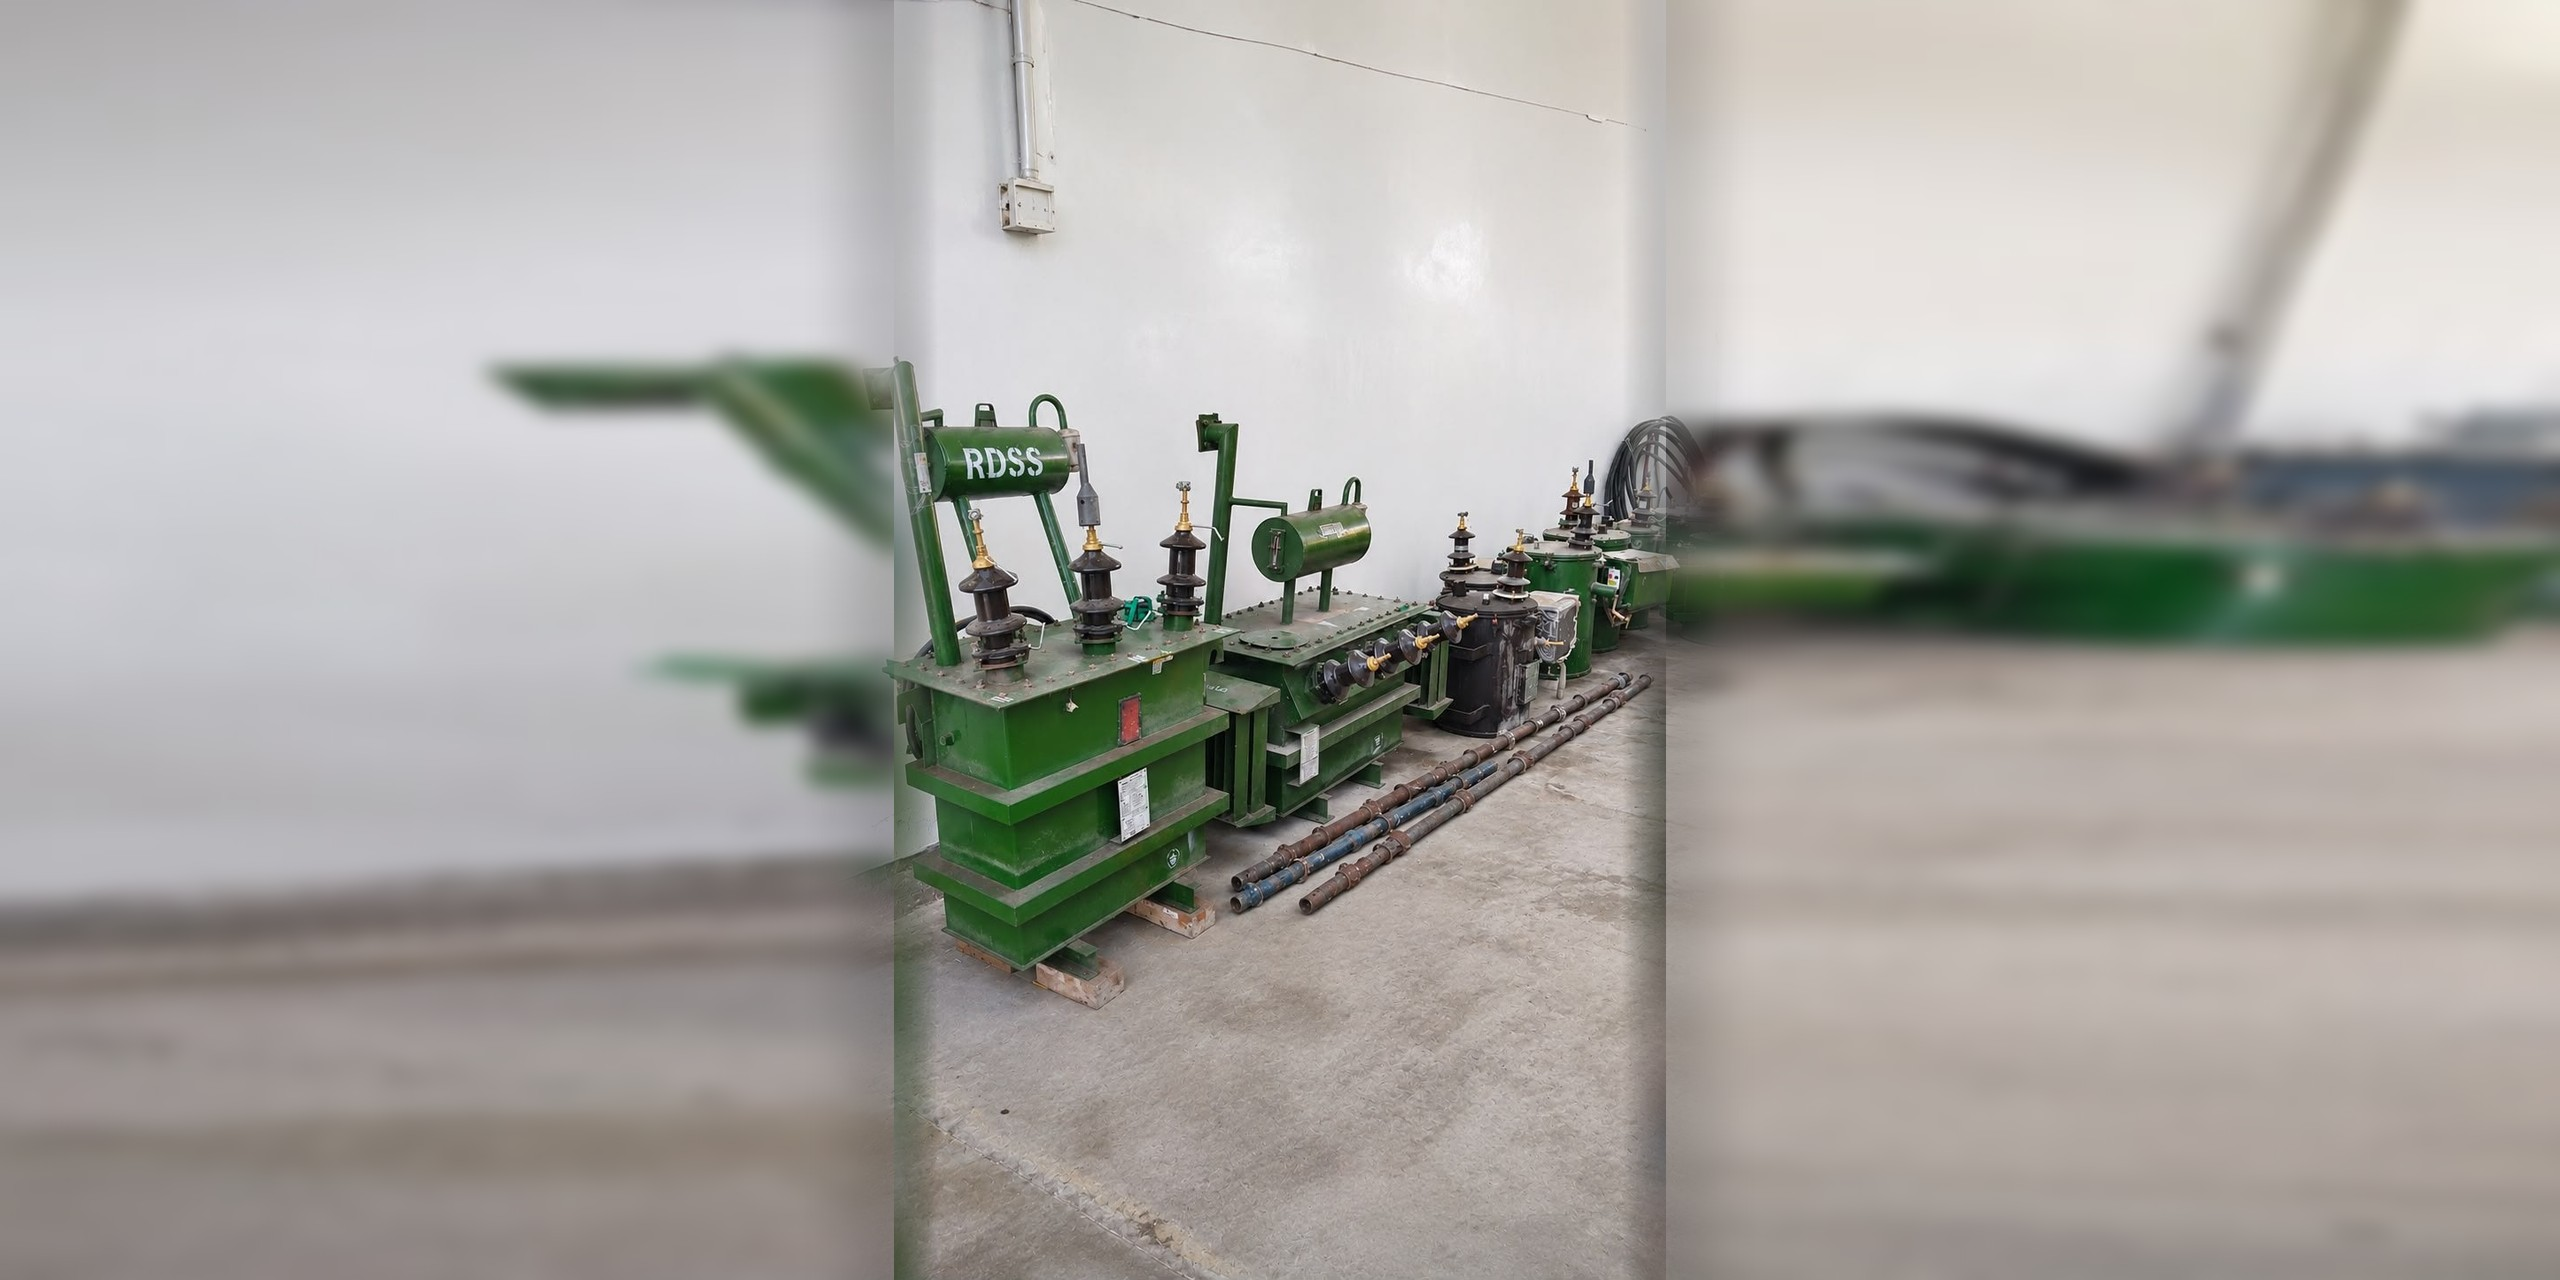
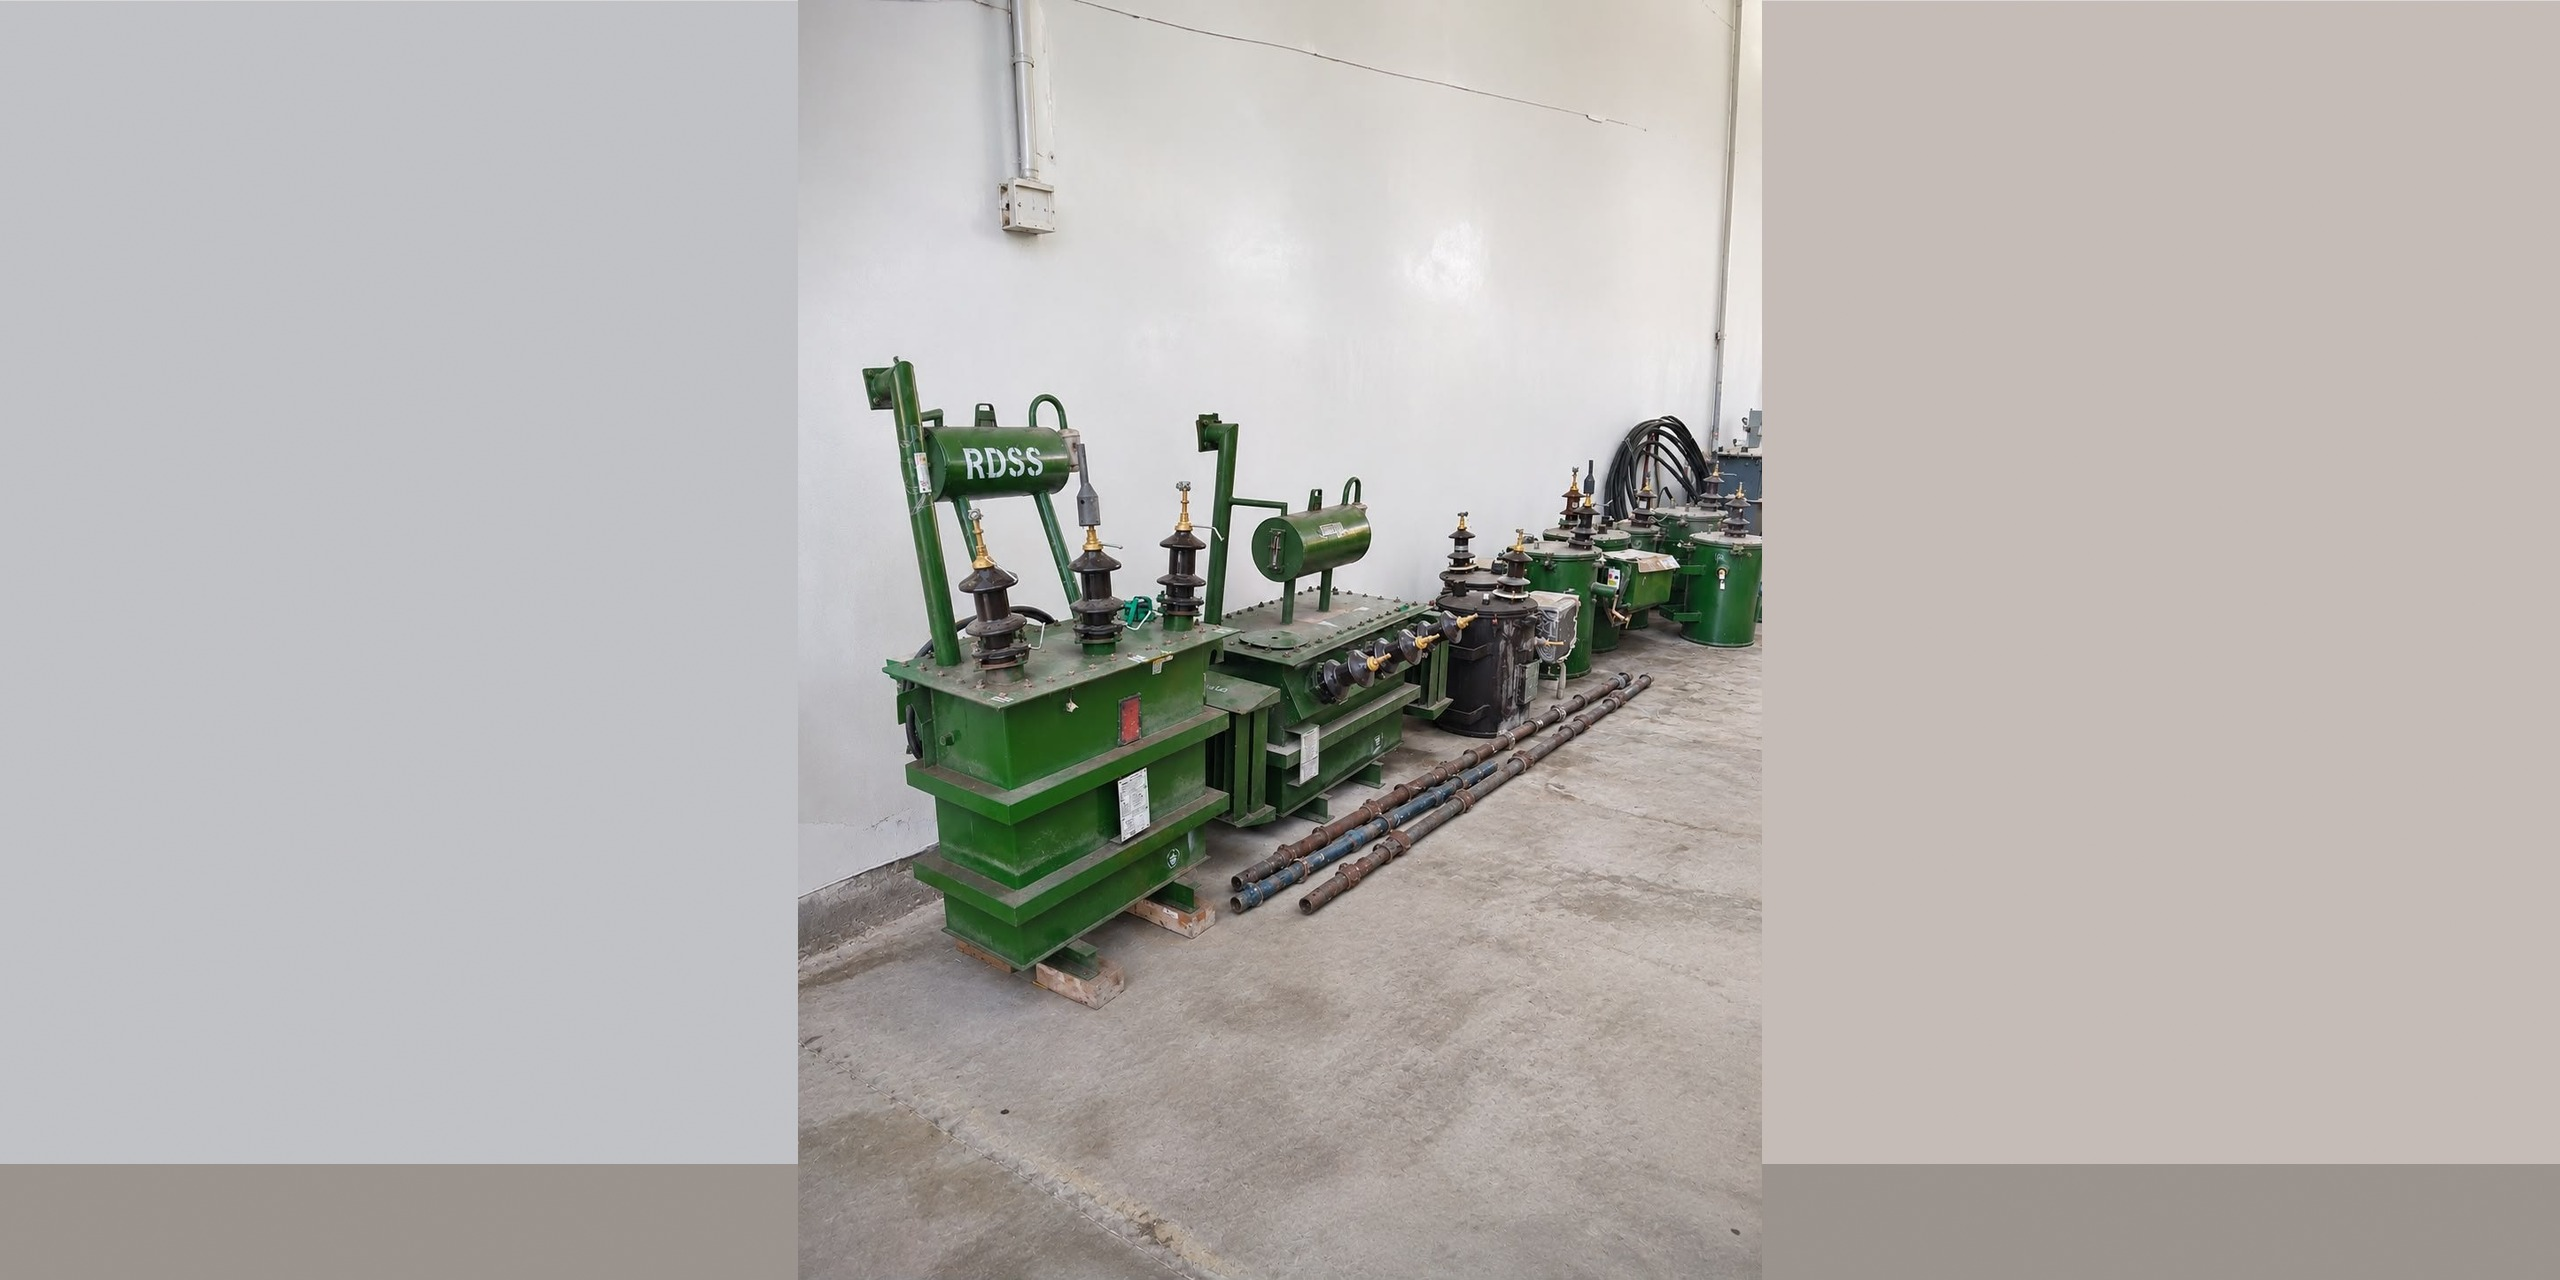
fix(hero): sharp 2:1 sky/ground extend, drop blur overlay

diff --git a/index.html b/index.html
@@ -170,33 +170,27 @@
     <section class="hero hero--fade" aria-roledescription="carousel" aria-label="Facility highlights">
       <div class="hero-slides">
         <figure class="hero-slide hero-slide--facility is-active">
-          <img class="hero-slide__fill" src="assets/images/hero/facility.jpg" alt="" aria-hidden="true" />
-          <img class="hero-slide__photo" src="assets/images/hero/facility.jpg" width="2560" height="1280" alt="Robust Testing Solutions Pvt Ltd. laboratory building at Plot H1-958, RIICO Chopanki, Bhiwadi (Delhi-NCR)" />
+          <img src="assets/images/hero/facility.jpg" width="2560" height="1280" alt="Robust Testing Solutions Pvt Ltd. laboratory building at Plot H1-958, RIICO Chopanki, Bhiwadi (Delhi-NCR)" />
           <figcaption class="hero-slide__cap">Our facility · Plot H1-958, RIICO Chopanki, Bhiwadi (Delhi-NCR)</figcaption>
         </figure>
         <figure class="hero-slide">
-          <img class="hero-slide__fill" src="assets/images/training-boardroom.jpg" alt="" aria-hidden="true" />
-          <img class="hero-slide__photo" src="assets/images/training-boardroom.jpg" width="1280" height="640" alt="Training session in the Robust Testing Solutions boardroom" />
+          <img src="assets/images/training-boardroom.jpg" width="1280" height="640" alt="Training session in the Robust Testing Solutions boardroom" />
           <figcaption class="hero-slide__cap">Training at Robust</figcaption>
         </figure>
         <figure class="hero-slide">
-          <img class="hero-slide__fill" src="assets/images/hero/fire-survival.jpg" alt="" aria-hidden="true" />
-          <img class="hero-slide__photo" src="assets/images/hero/fire-survival.jpg" width="2560" height="1280" alt="Horizontal flame bar test on a fire-survival cable" />
+          <img src="assets/images/hero/fire-survival.jpg" width="2560" height="1280" alt="Horizontal flame bar test on a fire-survival cable" />
           <figcaption class="hero-slide__cap">Fire-survival testing</figcaption>
         </figure>
         <figure class="hero-slide">
-          <img class="hero-slide__fill" src="assets/images/hero/witness.jpg" alt="" aria-hidden="true" />
-          <img class="hero-slide__photo" src="assets/images/hero/witness.jpg" width="2560" height="1280" alt="On-site witnessing of a cable sample inspection" />
+          <img src="assets/images/hero/witness.jpg" width="2560" height="1280" alt="On-site witnessing of a cable sample inspection" />
           <figcaption class="hero-slide__cap">Witnessing on the laboratory floor</figcaption>
         </figure>
         <figure class="hero-slide">
-          <img class="hero-slide__fill" src="assets/images/hero/transformer-testing.jpg" alt="" aria-hidden="true" />
-          <img class="hero-slide__photo" src="assets/images/hero/transformer-testing.jpg" width="2560" height="1280" alt="Distribution transformers set up for testing in the laboratory" />
+          <img src="assets/images/hero/transformer-testing.jpg" width="2560" height="1280" alt="Distribution transformers set up for testing in the laboratory" />
           <figcaption class="hero-slide__cap">Transformer testing</figcaption>
         </figure>
         <figure class="hero-slide">
-          <img class="hero-slide__fill" src="assets/images/hero/distribution-transformers.jpg" alt="" aria-hidden="true" />
-          <img class="hero-slide__photo" src="assets/images/hero/distribution-transformers.jpg" width="2560" height="1280" alt="Green RDSS distribution transformers awaiting test" />
+          <img src="assets/images/hero/distribution-transformers.jpg" width="2560" height="1280" alt="Green RDSS distribution transformers awaiting test" />
           <figcaption class="hero-slide__cap">Distribution transformers</figcaption>
         </figure>
       </div>

diff --git a/css/styles.css b/css/styles.css
@@ -305,9 +305,7 @@ body.nav-open { overflow: hidden; }
 .hero-slides { position: absolute; inset: 0; }
 .hero-slide { position: absolute; inset: 0; margin: 0; opacity: 0; transition: opacity 0.7s ease; pointer-events: none; overflow: hidden; }
 .hero-slide.is-active { opacity: 1; pointer-events: auto; }
-.hero-slide img { position: absolute; inset: 0; width: 100%; height: 100%; }
-.hero-slide__fill { object-fit: cover; object-position: center; filter: blur(32px) saturate(1.08); transform: scale(1.18); z-index: 0; pointer-events: none; }
-.hero-slide__photo { object-fit: contain; object-position: center; z-index: 1; }
+.hero-slide img { position: absolute; inset: 0; width: 100%; height: 100%; object-fit: contain; object-position: center; }
 .hero-slide__cap { position: absolute; left: 1.25rem; bottom: 3.4rem; z-index: 2; margin: 0; background: rgba(11,25,48,0.72); color: #fff; padding: 0.45rem 0.95rem; border-radius: var(--r-pill); font-size: 0.82rem; font-weight: 600; backdrop-filter: blur(8px); border: 1px solid rgba(255,255,255,0.18); }
 .hero__veil { position: absolute; inset: 0; z-index: 1; pointer-events: none; background: linear-gradient(90deg, rgba(11,25,48,0.82) 0%, rgba(11,25,48,0.52) 46%, rgba(11,25,48,0.22) 100%), linear-gradient(180deg, rgba(11,25,48,0.18) 0%, transparent 28%, rgba(11,25,48,0.35) 100%); }
 .hero__inner { position: relative; z-index: 2; width: min(100% - 2.2rem, var(--max-wide)); margin-inline: auto; min-height: clamp(36rem, 92vh, 56rem); display: flex; align-items: center; padding: clamp(3.2rem, 8vw, 5.5rem) 0 4.6rem; }
